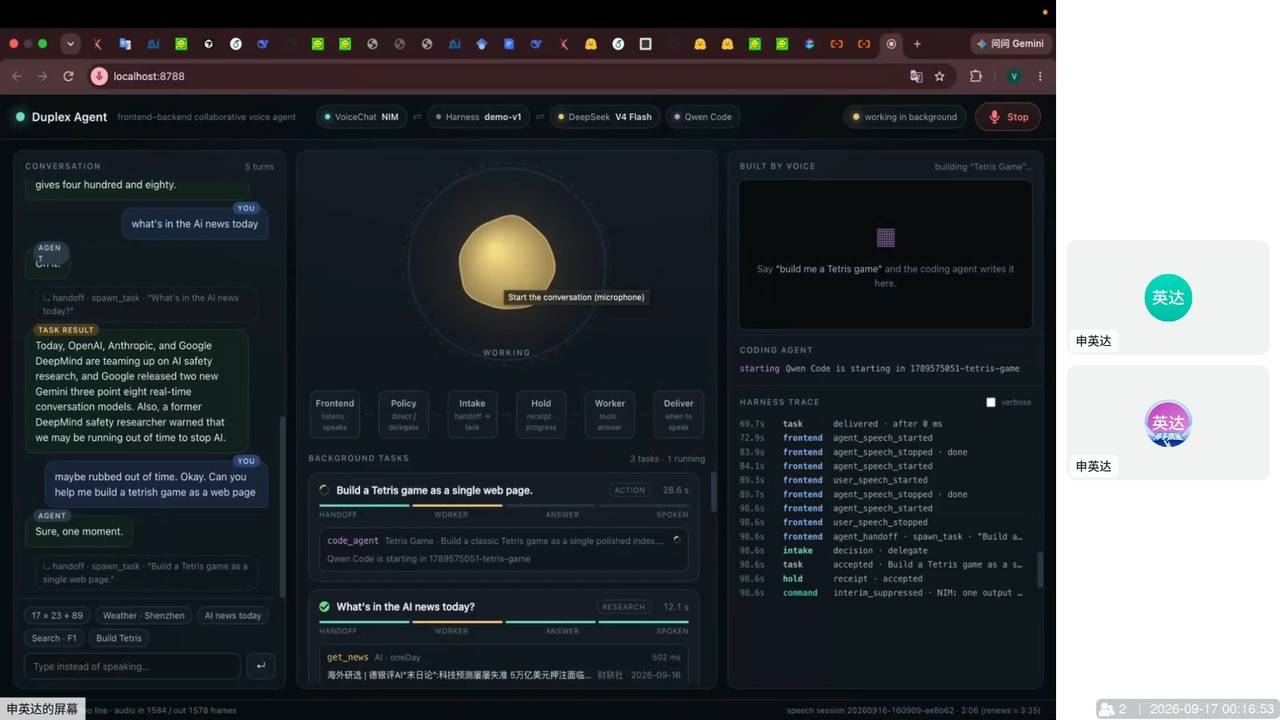
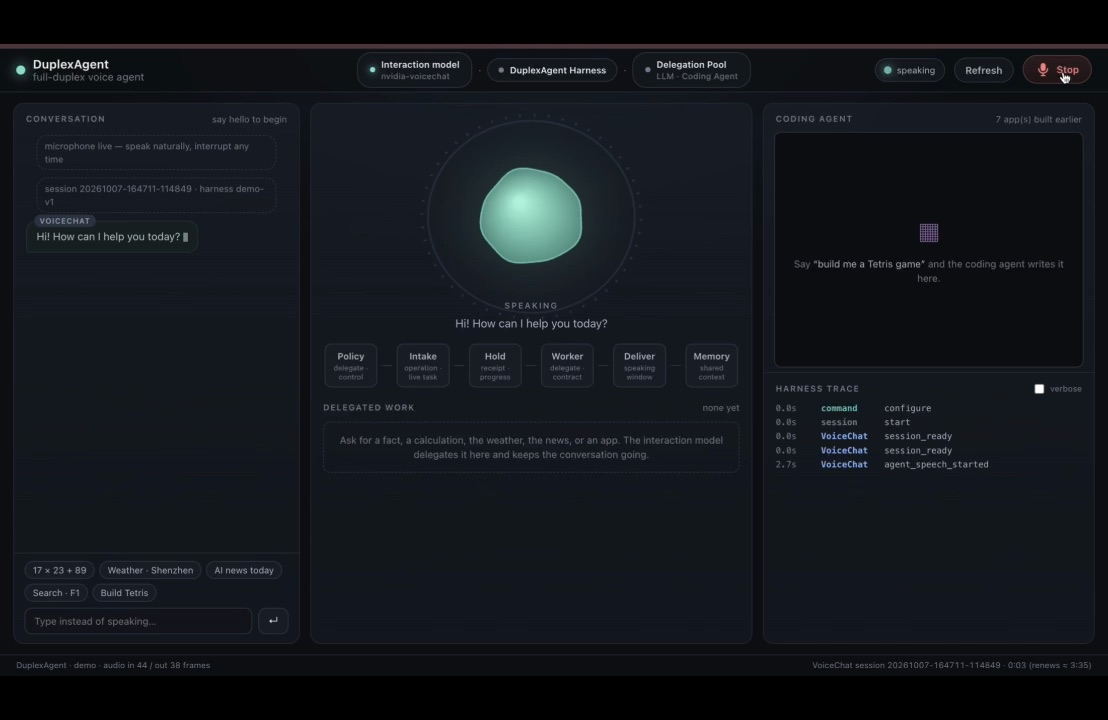
Replace the demo poster with a frame from the new session.

diff --git a/projects/duplexagent/index.html b/projects/duplexagent/index.html
@@ -67,7 +67,7 @@
         <p class="kicker"><span class="dash" aria-hidden="true"></span> 01 &nbsp; Demo</p>
         <h2>The conversation stays live while the work runs</h2>
         <p class="lead">The demo shows collaboration with two interaction models, NVIDIA VoiceChat and Qwen-Realtime. While delegated work is running, the conversation stays live. The user can interrupt, cancel, or revise the task at any time, and can keep discussing and revising a long-horizon task.</p>
-        <video class="demo" controls playsinline preload="metadata" poster="assets/demo-poster.jpg">
+        <video class="demo" controls playsinline preload="metadata" poster="assets/demo-poster.jpg?v=20261008">
           <source src="assets/demo.mp4" type="video/mp4">
         </video>
       </div>
